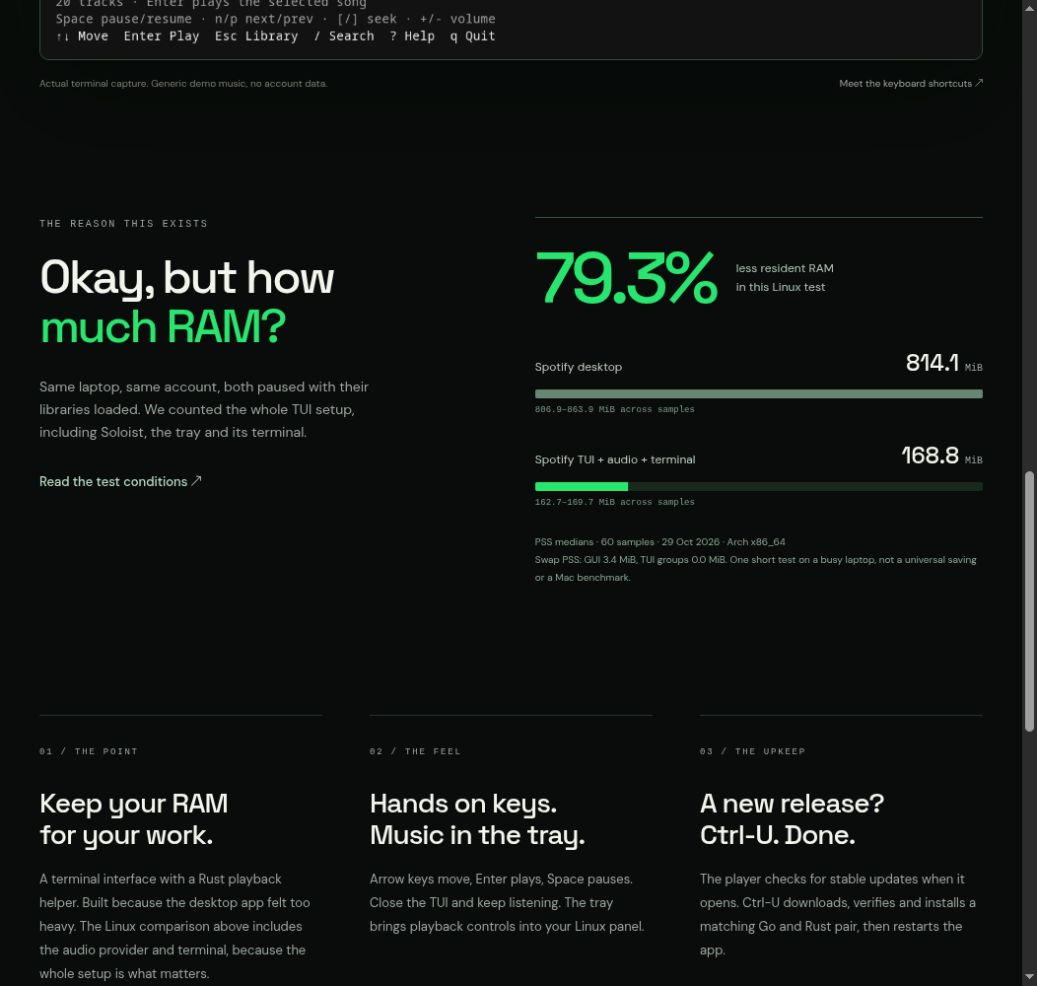
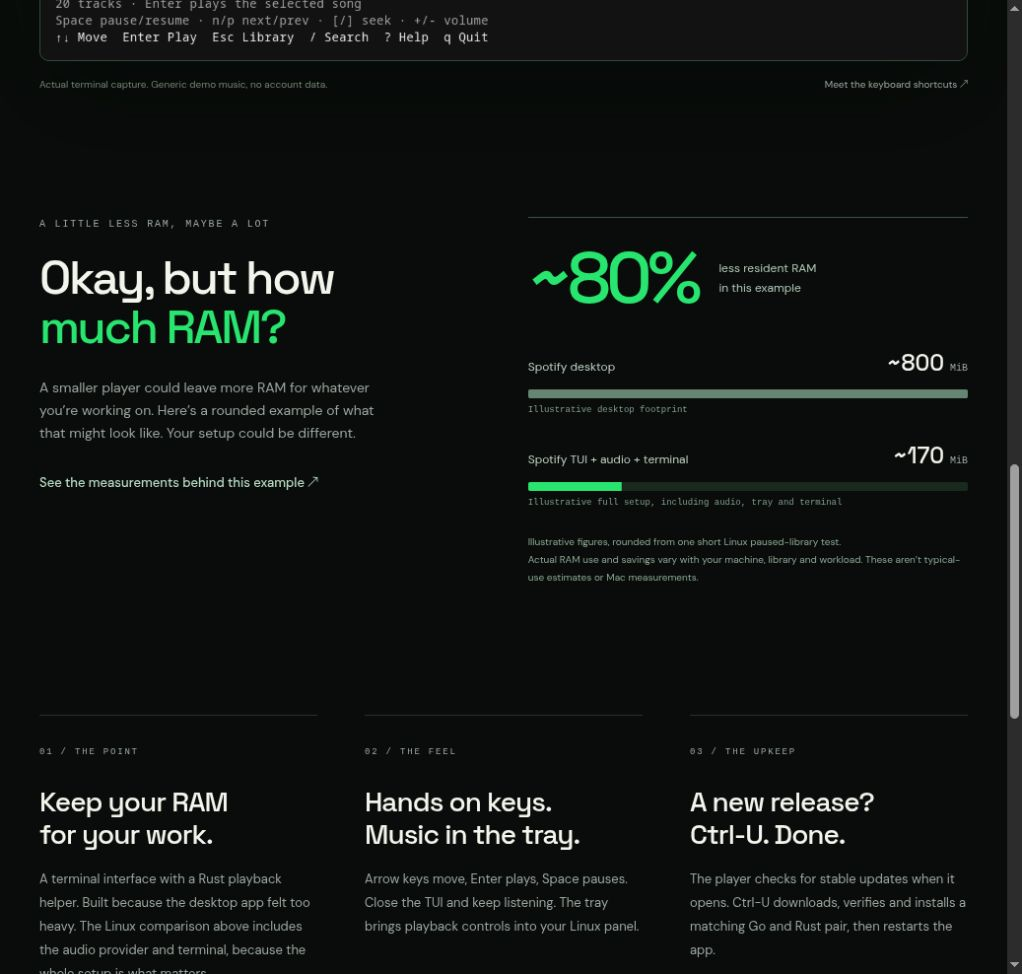
made the ram comparison more illustrative

diff --git a/next/components/memory-stats.tsx b/next/components/memory-stats.tsx
@@ -7,42 +7,40 @@ type Range = { median: number; min: number; max: number };
 type Result = {
   tui_total_pss_mib: Range;
   gui_total_pss_mib: Range;
-  reduction_percent: number;
-  groups: Record<string, { swap_pss_mib: Range }>;
 };
 
 export function MemoryStats() {
   const data: Result = JSON.parse(fs.readFileSync(path.resolve(process.cwd(),
     "../docs/benchmarks/linux-paused-2026-10-29.json"), "utf8"));
-  const tui = data.tui_total_pss_mib;
-  const gui = data.gui_total_pss_mib;
-  const tuiSwap = Object.entries(data.groups).filter(([name]) => name !== "gui")
-    .reduce((sum, [, group]) => sum + group.swap_pss_mib.median, 0);
+  // Keep the measured source intact; the landing page uses a rounded illustration.
+  const tui = Math.round(data.tui_total_pss_mib.median / 10) * 10;
+  const gui = Math.round(data.gui_total_pss_mib.median / 100) * 100;
+  const reduction = Math.round((1 - tui / gui) * 10) * 10;
   return <section className="memory wrap" id="memory" aria-labelledby="memory-title">
     <div className="memory-intro" data-reveal>
-      <span className="eyebrow">THE REASON THIS EXISTS</span>
+      <span className="eyebrow">A LITTLE LESS RAM, MAYBE A LOT</span>
       <h2 id="memory-title">Okay, but how<br /><em>much RAM?</em></h2>
-      <p>Same laptop, same account, both paused with their libraries loaded.
-        We counted the whole TUI setup, including Soloist, the tray and its terminal.</p>
-      <Link className="text-link" href="/memory">Read the test conditions ↗</Link>
+      <p>A smaller player could leave more RAM for whatever you’re working on.
+        Here’s a rounded example of what that might look like. Your setup could be different.</p>
+      <Link className="text-link" href="/memory">See the measurements behind this example ↗</Link>
     </div>
     <div className="memory-chart" data-reveal>
-      <div className="memory-headline"><strong>{data.reduction_percent}%</strong>
-        <span>less resident RAM<br />in this Linux test</span></div>
+      <div className="memory-headline"><strong>~{reduction}%</strong>
+        <span>less resident RAM<br />in this example</span></div>
       <div className="memory-row">
-        <div><span>Spotify desktop</span><strong>{gui.median.toFixed(1)} <small>MiB</small></strong></div>
+        <div><span>Spotify desktop</span><strong>~{gui} <small>MiB</small></strong></div>
         <div className="memory-track"><span className="memory-bar gui-bar" /></div>
-        <p>{gui.min.toFixed(1)}–{gui.max.toFixed(1)} MiB across samples</p>
+        <p>Illustrative desktop footprint</p>
       </div>
       <div className="memory-row">
-        <div><span>Spotify TUI + audio + terminal</span><strong>{tui.median.toFixed(1)} <small>MiB</small></strong></div>
+        <div><span>Spotify TUI + audio + terminal</span><strong>~{tui} <small>MiB</small></strong></div>
         <div className="memory-track"><span className="memory-bar tui-bar"
-          style={{ "--bar-scale": Math.min(tui.median / gui.median, 1) } as CSSProperties} /></div>
-        <p>{tui.min.toFixed(1)}–{tui.max.toFixed(1)} MiB across samples</p>
+          style={{ "--bar-scale": Math.min(tui / gui, 1) } as CSSProperties} /></div>
+        <p>Illustrative full setup, including audio, tray and terminal</p>
       </div>
-      <p className="memory-note">PSS medians · 60 samples · 29 Oct 2026 · Arch x86_64<br />
-        Swap PSS: GUI {data.groups.gui.swap_pss_mib.median.toFixed(1)} MiB, TUI groups {tuiSwap.toFixed(1)} MiB.
-        One short test on a busy laptop, not a universal saving or a Mac benchmark.</p>
+      <p className="memory-note">Illustrative figures, rounded from one short Linux paused-library test.<br />
+        Actual RAM use and savings vary with your machine, library and workload.
+        These aren’t typical-use estimates or Mac measurements.</p>
     </div>
   </section>;
 }
